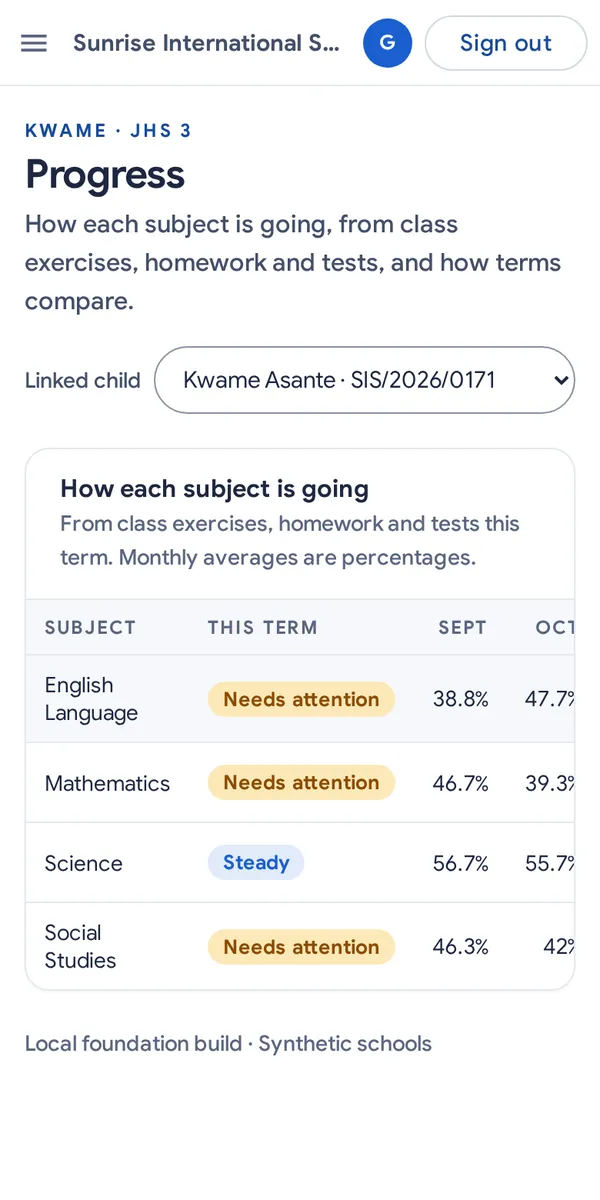
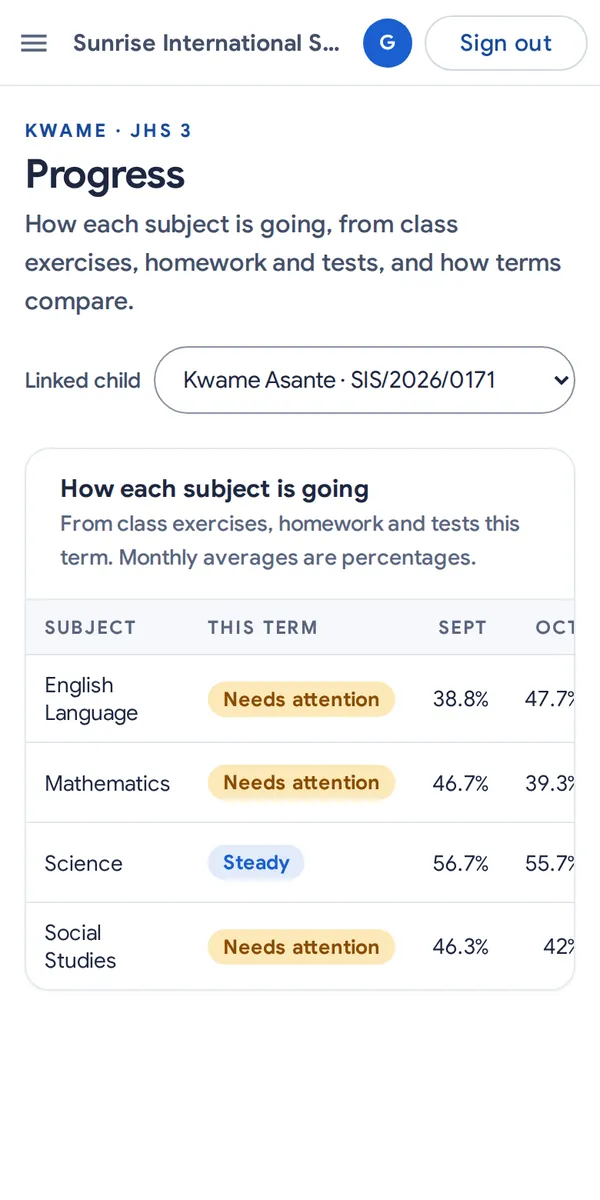
fix: parent Progress picture without the dev-server note; capture script hides elements instead of removing them; STATUS and MEMORY for the sign-in and register pages

Changed region(s): [[0.06, 0.8633, 0.72, 0.8942], [0.54, 0.4008, 0.57, 0.4317]]

diff --git a/STATUS.md b/STATUS.md
@@ -1,8 +1,10 @@
 # Status
 
-Updated: 2026-09-29 (audit slices 1–5). **P1–P4 implementation authorized; active.**
+Updated: 2026-10-17 (sign-in and register pages; audit slices 1–5 of 2026-09-29). **P1–P4 implementation authorized; active.**
 
 Demo school (2026-10-15): "Sunrise International School (Demo)" is loaded in the production database through the live API by `backend/scripts/demo-hosted.ts` (13 classes, ~190 learners, 2025/26 complete with promotion, 2026/27 Term 1 to 14 Oct; Ask on, cap 300, sharing on). Read-only demo mode is built and tested locally (`READ_ONLY_SCHOOL_IDS`, `backend/tests/readonly.test.ts`) but **not active on Render until pushed and the env var is set**; until then the three shared logins can change data. Logins are only in `.local/demo-hosted/logins.txt`. Fees-by-class summary, enrolled-today counts, roll class column and early-years report totals were added because the demo exposed them. Run `current` weekly to keep the term moving.
+
+Sign-in and register pages (2026-10-17): `#/signin` is a full page (form beside the pitch, a tour of real demo-school pages, who signs in, parent phones, sign-in help, and the system and production specification with Live / Optional / Target / Not yet tags); `#/register` is a single screen with nothing to scroll to (Evans: "it shouldn't be scrollable, don't overcrowd it"). Pictures are WebP captures of the Sunrise demo school: `scripts/capture-auth-shots.mjs` (staff pages from the hosted demo, parent phones from the local demo school because hosted home practice is off) then `scripts/auth-shots-to-webp.py` into `frontend/public/auth/`. A sign-in or sign-up that meets an outage now says what happened instead of "changes may not have been saved". Verified locally on a disposable database: web build, `e2e/auth-pages.spec.ts` (3), `e2e/landing.spec.ts`, and the sign-up and sign-in cases in `release.spec.ts`. The specification text is written from the architecture and deployment documents and the code; Evans to confirm the wording of the recovery target and the data-protection checklist line.
 
 Implemented locally: P1 synthetic sessions, live tenant/role checks, restricted PostgreSQL/FORCE RLS, settings, audit and durable private exports. P2 admissions/enrolment, school calendar/classes, historical transfers/withdrawal, reviewed guardian rights/initial portal, dated teacher assignments and minimal scoped rosters, attendance school-day/register workflows, staged/reviewed student CSV imports, and authorized child collection with head-reviewed exceptions and immutable correction history. Attendance derives dated eligible enrolments, supports draft/submit/headteacher lock and reasoned corrections, and retains versions and correction history. Teacher access requires a live assignment.
 

diff --git a/MEMORY.md b/MEMORY.md
@@ -372,3 +372,10 @@ Read MEMORY.md at the start of every session before doing anything. Never contra
 **What was decided:** At Evans's request (pages felt cluttered, navigation should be easy) head and teacher pages follow one rule: a page has one job; a list that can grow is shown a page at a time with search; a form used now and then (add an account, assign a teacher, new policy, revoke) opens in a dialog instead of sitting under the list; repeated per-row forms become a row button; rare yearly work (promotion) is a tab under its owner (Learners), not a sidebar item; the teacher's class roster is its own sidebar page.
 **Why:** The live pages had grown to 8,000 to 23,000 px (Fees, Staff accounts) with hundreds of buttons, and the sidebar clipped its last item on a laptop screen.
 **What was rejected:** Moving the long lists to separate routes (tabs and dialogs keep the address and the class/term choice).
+
+## 2026-10-17, sign-in is a full page; register is one screen
+**What was decided:** Evans asked for full-page, product-led marketing with the system and production specification on both pages, then, seeing the register page, said the top section is right for sign-up: it must not scroll and must not be crowded. So `#/register` is only the hero (pitch, product picture, form, three trust lines) and fits one screen from 1280×720 up; `#/signin` keeps the full page. The specification states only what is built and tags the rest: Live, Optional (two-step sign-in, off for pilot schools), Target (recovery: lose at most 1 hour, back in 4), Before real records (Data Protection Commission registration, controller/processor agreement, guardian notices), Not yet (mobile money, SMS, offline).
+**Why:** A school's first minute is the form; the long case for trusting the system belongs where a returning or cautious visitor goes looking, and nothing on it may promise more than the deployment documents support.
+**What was rejected:** Setup steps, cost block and questions on the register page (too much); a consent checkbox on sign-up (the architecture says a blanket checkbox is not enough); an uptime/alerting claim and an "export your records" claim (not verified in code or deployment).
+**Still needing Evans:** confirm the specification wording for the recovery target and for "Veloxa and the school complete a data-protection checklist before real learner records", and whether sign-in should also be trimmed to one screen. README.md has an uncommitted edit that includes the demo password in plain text; I left it alone.
+
